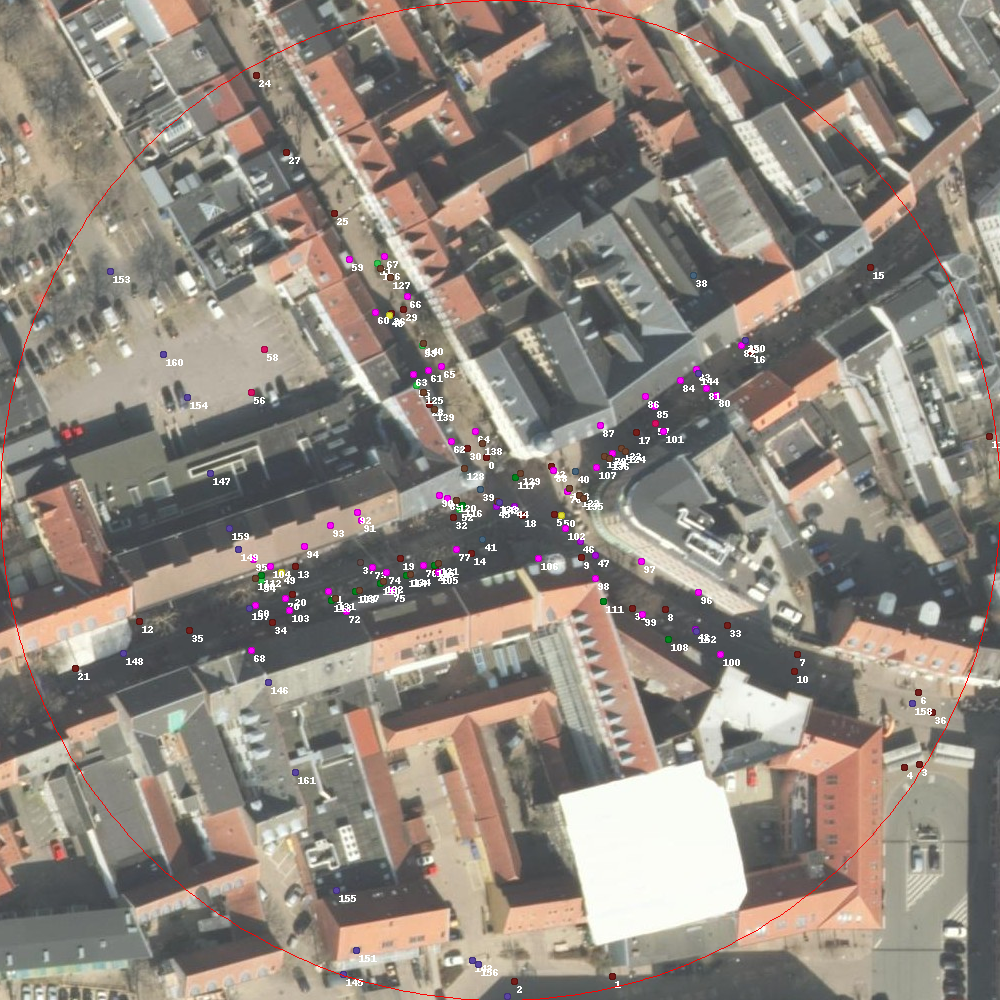
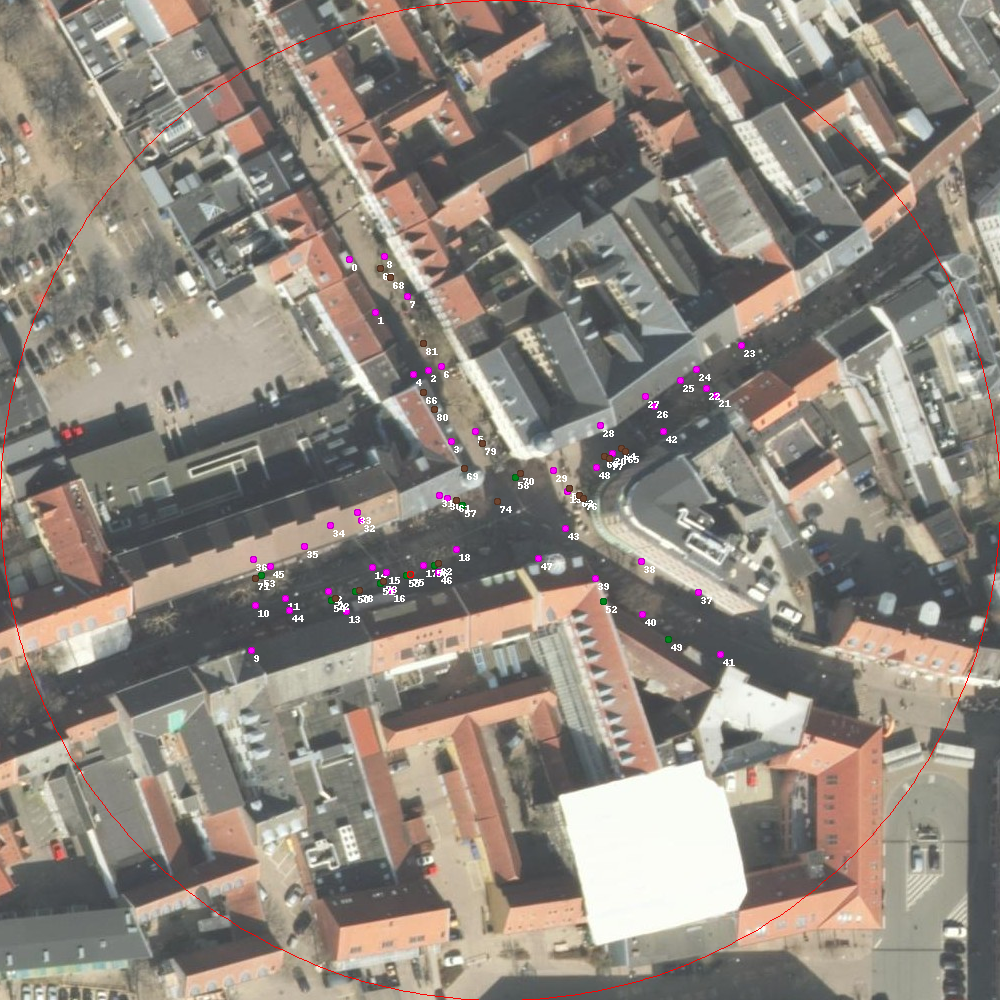
selection

diff --git a/v1/main.py b/v1/main.py
@@ -65,7 +65,7 @@ class Plot_Image:
 
         pass
 
-    def get_image(self, types: list, show_circle: bool = True, show_annotations: bool = True):
+    def get_image(self, types: list, show_circle: bool = True, selected: str = None, show_annotations: bool = True):
         with Image.open(self.backgound_path) as im:
             draw = ImageDraw.Draw(im)
 
@@ -82,7 +82,11 @@ class Plot_Image:
 
                         for f in self.data[source][typename]:
                             xy = [(f['plot_x'] - 3, f['plot_y'] - 3), (f['plot_x'] + 3, f['plot_y'] + 3)]
-                            draw.ellipse(xy=xy, fill=fill, outline=outline)
+
+                            if selected == f['id']:
+                                draw.ellipse(xy=xy, fill=fill, outline='red')
+                            else:
+                                draw.ellipse(xy=xy, fill=fill, outline=outline)
 
                             draw.text(xy=[f['plot_x'] + 3, f['plot_y'] + 3], text=f'{i}')
                             i += 1
@@ -240,6 +244,9 @@ def plot(area):
 
     graph.DrawImage(image_object.get_image([]), location=(0, size[1]))
 
+    selected = None
+
+    drawn_types = []
     while True:
         event, values = window.read()
 
@@ -248,25 +255,43 @@ def plot(area):
         if event == sg.WIN_CLOSED or event == 'Back':
             break
 
+
         if event == 'Draw':
             types = [inputs[i]['typename'] for i in inputs if values[i]]
-            graph.DrawImage(image_object.get_image(types=types), location=(0, size[1]))
+            drawn_types = types
+
 
         if event == 'Click':
-            source = choice(sources)
-            typename = choice(list(data[source]))
-            feature = choice(data[source][typename])
+            features = []
+            for source in sources:
+                for typename in image_object.data[source]:
+                    if typename in drawn_types:
+                        features.extend(image_object.data[source][typename])
 
-            attributes = {}
-            for key, val in zip(feature.attributes.keys(), feature.attributes.values()):
-                t = type(val)
+            x, y = values['Click']
+            y = size[1] - y
 
-                if not t in (int, str, float) or key == 'Unnamed: 0' or str(val) in ('nan', 'None'):
-                    continue
-                
-                attributes[key] = val
+            features = [{'d': ((ft['plot_x'] - x)**2 + (ft['plot_y'] - y)**2), 'feature': ft} for ft in features]
 
-            properties.set_attributes(window, attributes)
+            selected = None
+            if len(features) > 0:
+                ft = min(features, key=lambda ft: ft['d'])
+                feature = ft['feature']
+
+                attributes = {}
+                if ft['d'] < 7**2:
+                    selected = feature['id']
+                    for key, val in zip(feature.attributes.keys(), feature.attributes.values()):
+                        t = type(val)
+
+                        if not t in (int, str, float) or key == 'Unnamed: 0' or str(val) in ('nan', 'None'):
+                            continue
+                        
+                        attributes[key] = val
+
+                properties.set_attributes(window, attributes)
+
+        graph.DrawImage(image_object.get_image(types=types, selected=selected), location=(0, size[1]))
 
     window.close()
 
